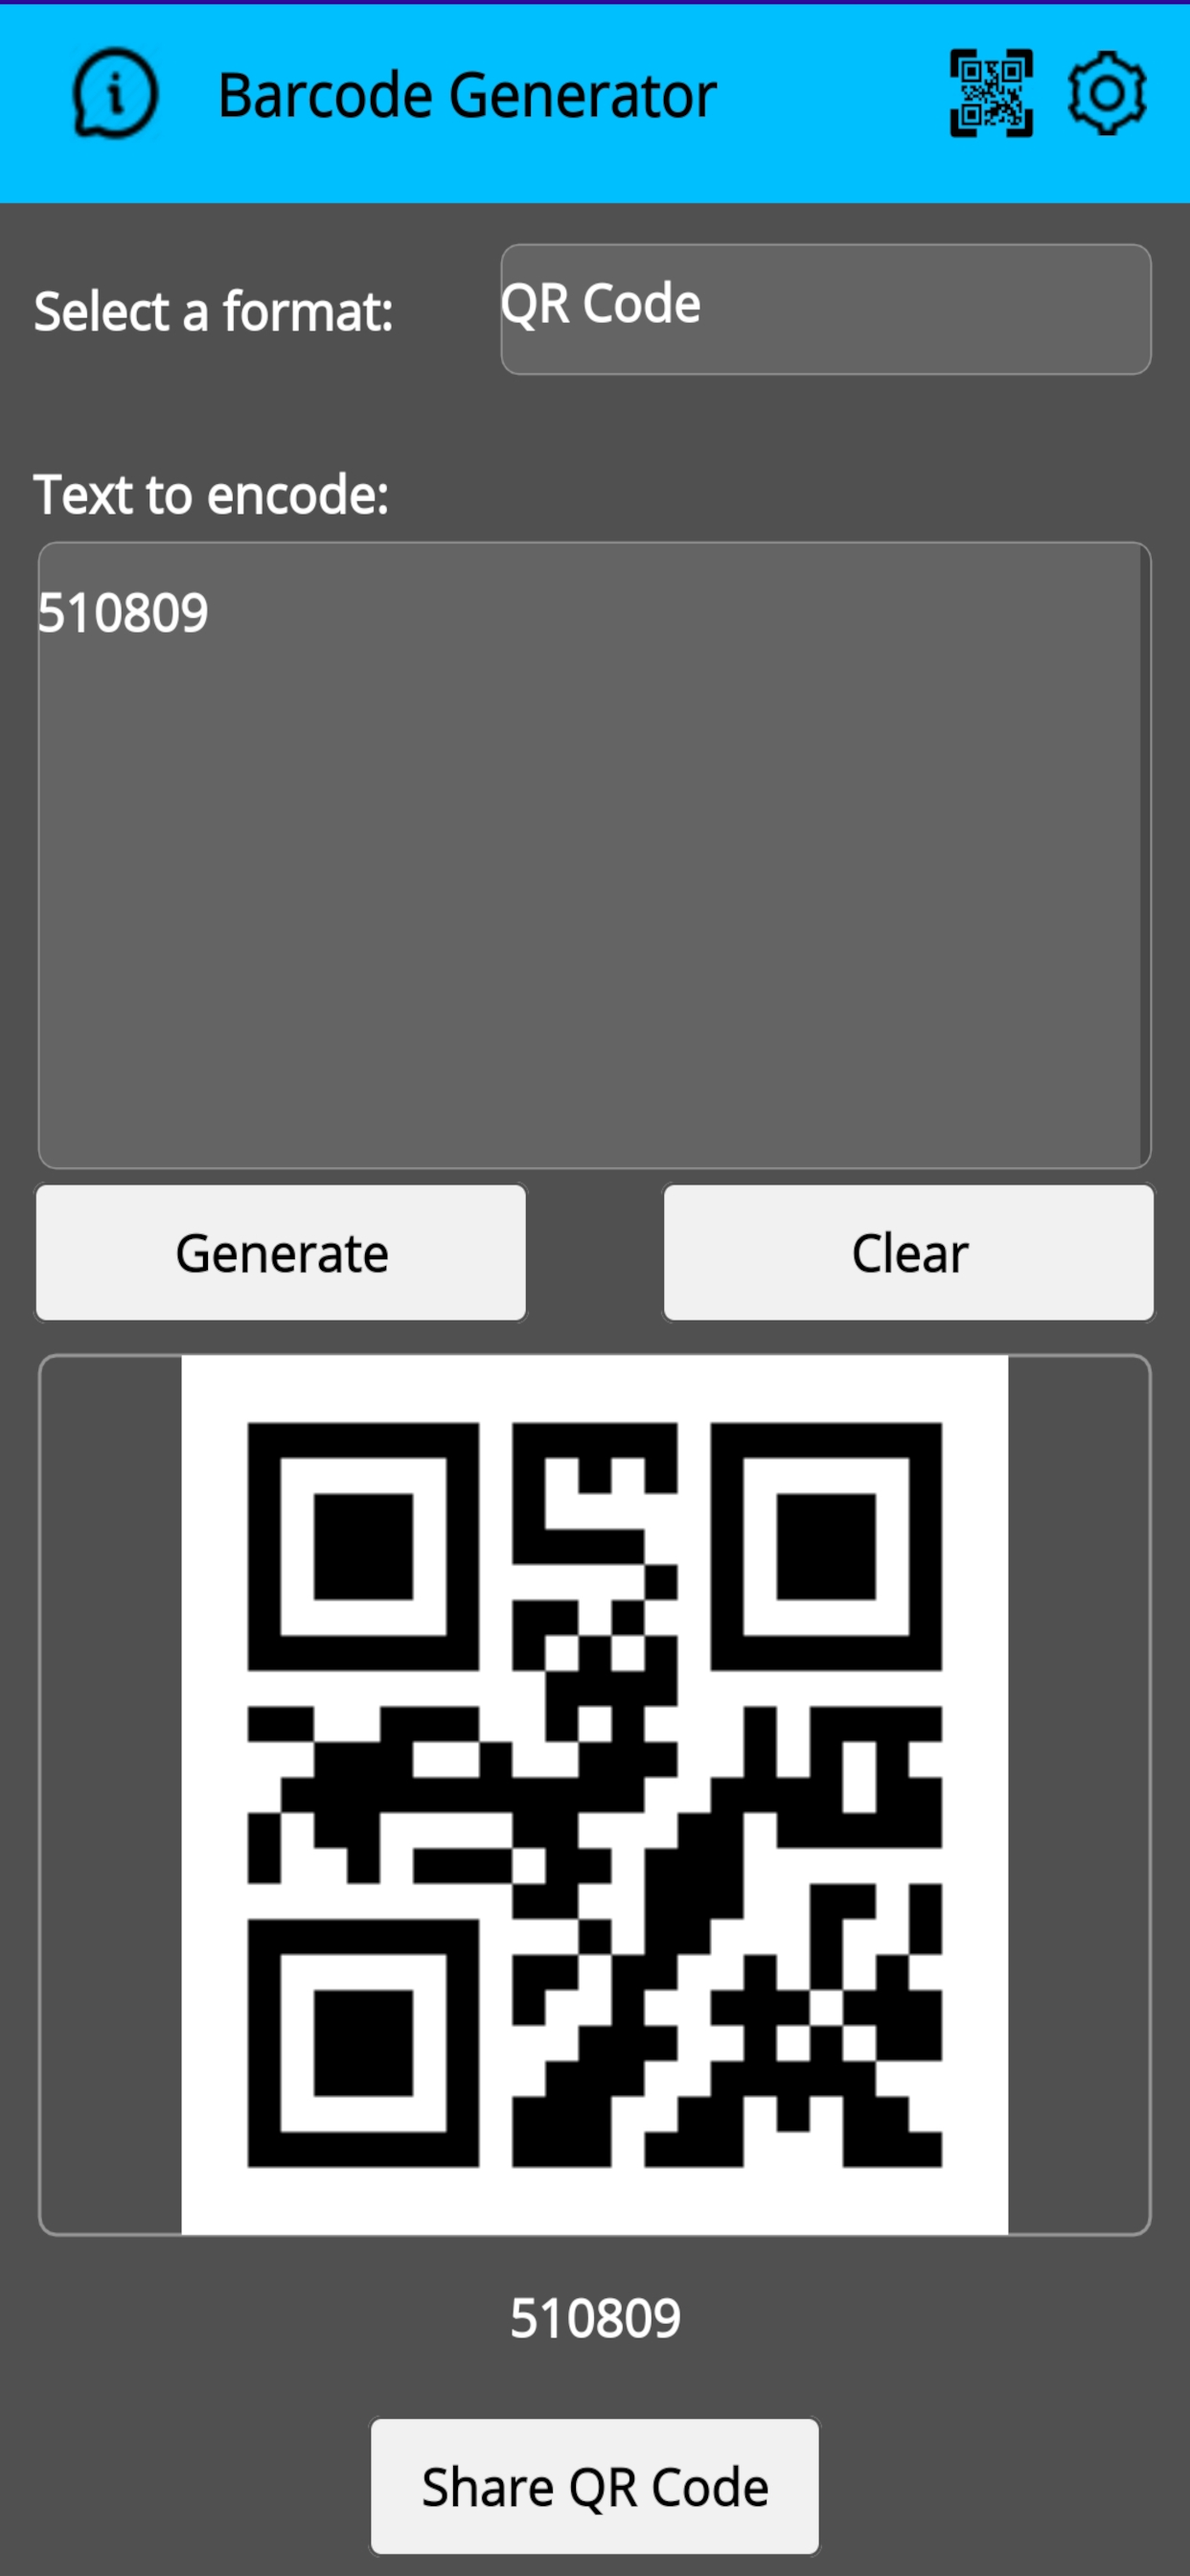
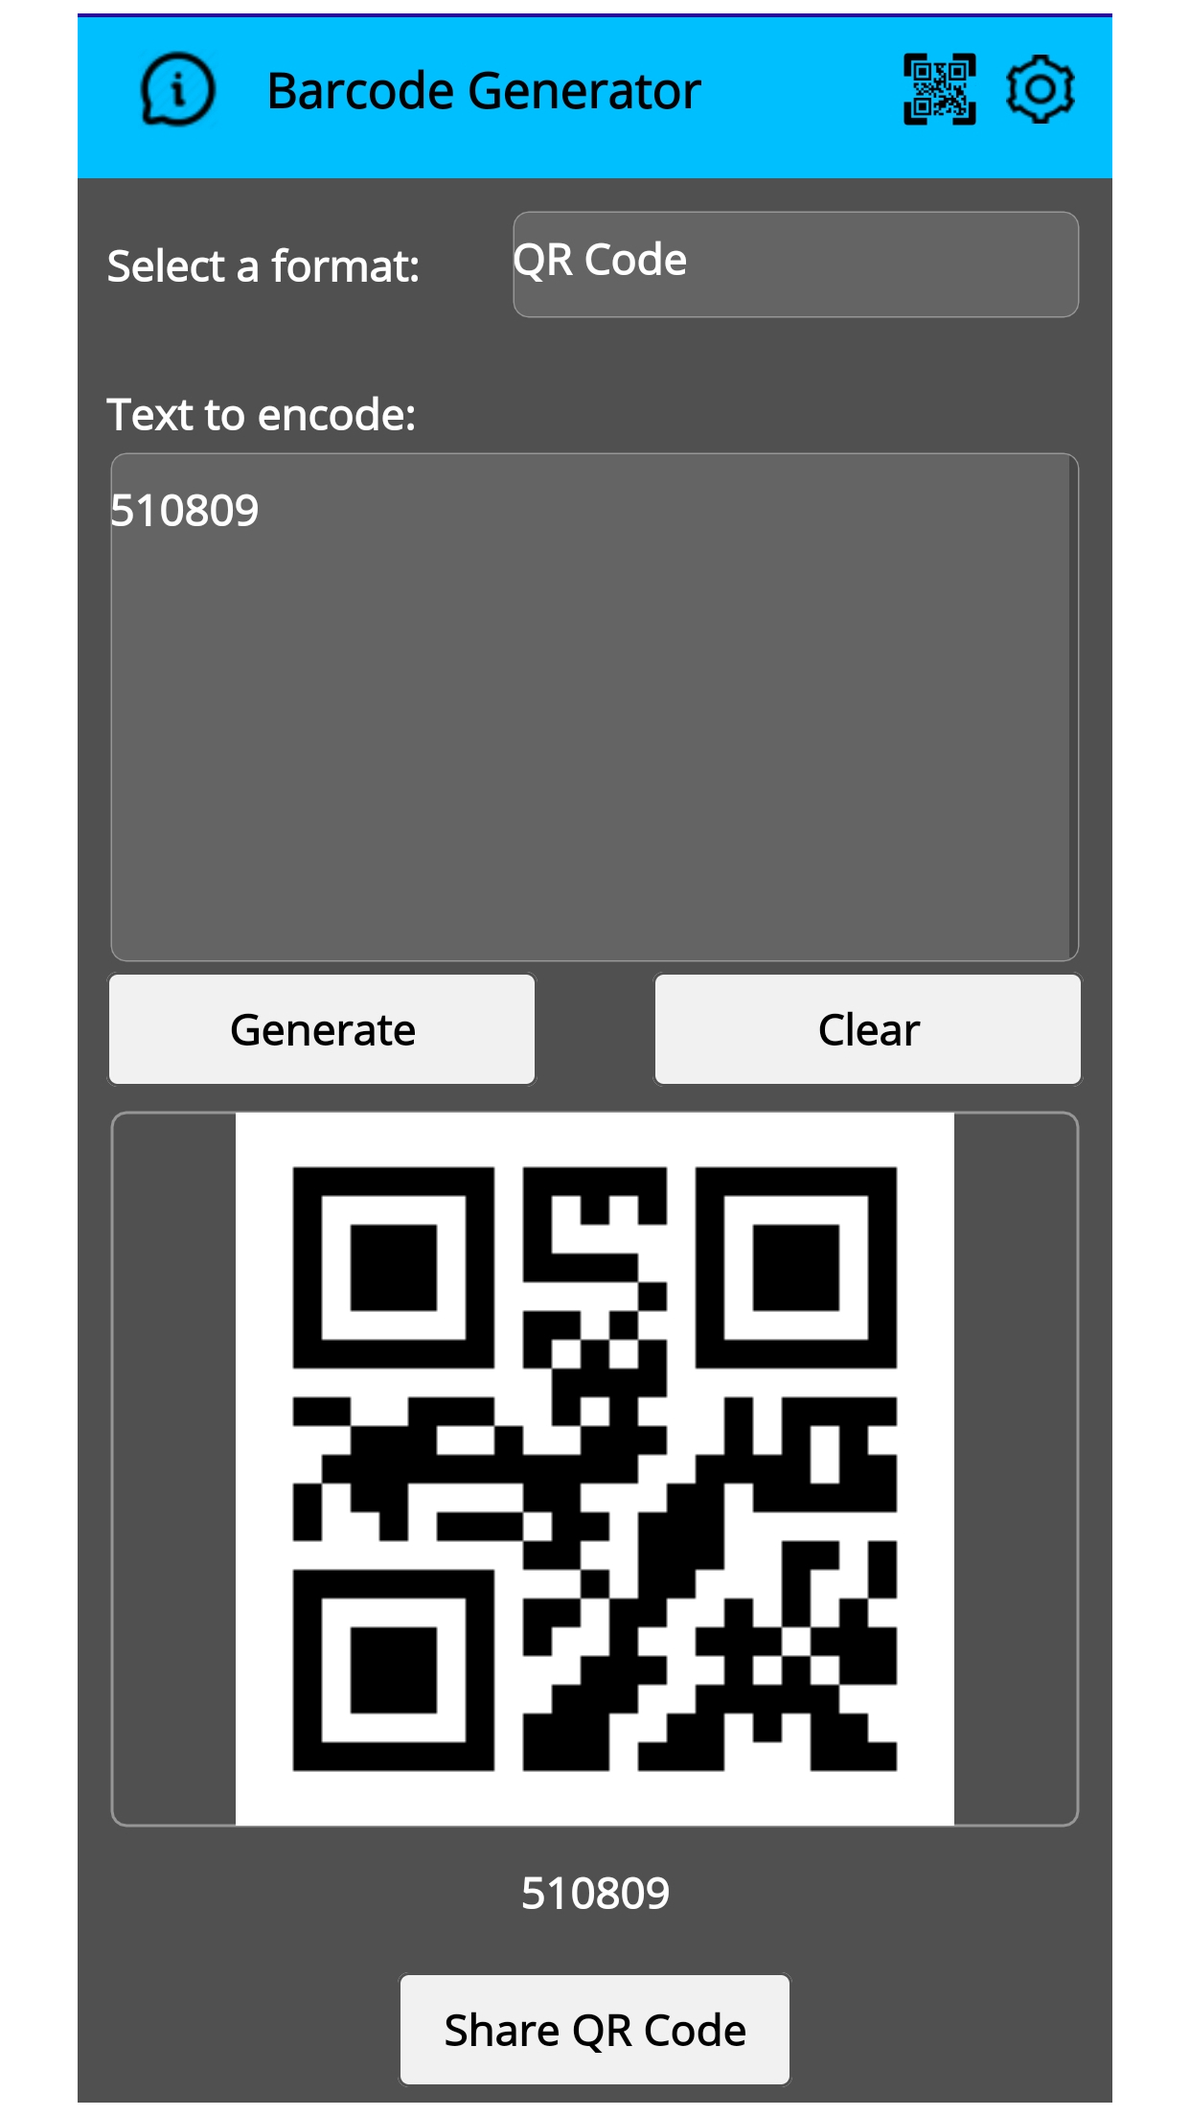
Update

diff --git a/BarcodeGenerator/App.xaml b/BarcodeGenerator/App.xaml
@@ -21,6 +21,12 @@
                 <Setter Property="BackgroundColor" Value="{AppThemeBinding Light={StaticResource LightGray}, Dark={StaticResource DarkGray}}" />
             </Style>
 
+            <Style TargetType="NavigationPage">
+                <Setter Property="BarBackgroundColor" Value="{AppThemeBinding Light={StaticResource Primary}, Dark={StaticResource Primary}}" />
+                <Setter Property="BarTextColor" Value="{AppThemeBinding Light={StaticResource Black}, Dark={StaticResource Black}}" />
+                <Setter Property="IconColor" Value="{AppThemeBinding Light={StaticResource Black}, Dark={StaticResource Black}}" />
+            </Style>
+
             <Style TargetType="StackLayout">
                 <Setter Property="BackgroundColor" Value="{AppThemeBinding Light={StaticResource LightGray}, Dark={StaticResource DarkGray}}" />
             </Style>

diff --git a/BarcodeGenerator/PageAbout.xaml b/BarcodeGenerator/PageAbout.xaml
@@ -30,7 +30,7 @@
                 x:Name="lblVersion"
                 VerticalOptions="Center" 
                 HorizontalOptions="Start"
-                Text="Version: 1.0.21" />
+                Text="Version: 1.0.22" />
 
             <Label
                 x:Name="lblCopyright"

diff --git a/BarcodeGenerator/PageSettings.xaml.cs b/BarcodeGenerator/PageSettings.xaml.cs
@@ -417,7 +417,7 @@ public partial class PageSettings : ContentPage
     }
 
     // Button save settings clicked event.
-    private async void OnSettingsSaveClicked(object sender, EventArgs e)
+    private static void OnSettingsSaveClicked(object sender, EventArgs e)
     {
         Preferences.Default.Set("SettingTheme", MainPage.cTheme);
         Preferences.Default.Set("SettingFormatGeneratorIndex", MainPage.nFormatGeneratorIndex);
@@ -431,11 +431,11 @@ public partial class PageSettings : ContentPage
 
         // Restart the application.
         //Application.Current.MainPage = new AppShell();
-        await Navigation.PushAsync(new MainPage());
+        Application.Current.MainPage = new NavigationPage(new MainPage());
     }
 
     // Button reset settings clicked event.
-    private async void OnSettingsResetClicked(object sender, EventArgs e)
+    private void OnSettingsResetClicked(object sender, EventArgs e)
     {
         // Get the elapsed time in milli seconds.
         stopWatch.Stop();
@@ -461,6 +461,6 @@ public partial class PageSettings : ContentPage
 
         // Restart the application.
         //Application.Current.MainPage = new AppShell();
-        await Navigation.PushAsync(new MainPage());
+        Application.Current.MainPage = new NavigationPage(new MainPage());
     }
 }

diff --git a/BarcodeGenerator/MainPage.xaml.cs b/BarcodeGenerator/MainPage.xaml.cs
@@ -1,8 +1,8 @@
 // Program .....: BarcodeGenerator.sln
 // Author ......: Geert Geerits - E-mail: geertgeerits@gmail.com
 // Copyright ...: (C) 2022-2022
-// Version .....: 1.0.21
-// Date ........: 2022-12-12 (YYYY-MM-DD)
+// Version .....: 1.0.22
+// Date ........: 2022-12-13 (YYYY-MM-DD)
 // Language ....: Microsoft Visual Studio 2022: .NET MAUI C# 11.0
 // Description .: Barcode Generator
 // Note ........: zxing:CameraBarcodeReaderView -> ex. WidthRequest="300" -> Grid RowDefinitions="400" (300 x 1.3333) = 3:4 aspect ratio
@@ -848,7 +848,7 @@ public partial class MainPage : ContentPage
         char[] charArray = cText.ToCharArray();
         Array.Reverse(charArray);
 
-        return String.Concat(charArray);
+        return string.Concat(charArray);
     }
 
     // Calculate the checksum of an EAN-13, EAN-8 and UPC-A code.
@@ -928,7 +928,7 @@ public partial class MainPage : ContentPage
         await DisplayAlert(cErrorTitle, cErrorMessage + "\n" + cRestartApp, cButtonClose);
 
         //Application.Current.MainPage = new AppShell();
-        await Navigation.PushAsync(new MainPage());
+        Application.Current.MainPage = new NavigationPage(new MainPage());
     }
 
     // Show license for Android and Windows = Workaround !!!

diff --git a/BarcodeGenerator/App.xaml.cs b/BarcodeGenerator/App.xaml.cs
@@ -10,12 +10,7 @@ public partial class App : Application
         //System.Globalization.CultureInfo.CurrentCulture = new System.Globalization.CultureInfo("nl-BE");
 
         //MainPage = new AppShell();
-        //MainPage = new NavigationPage(new MainPage());
-
-        var navigationPage = new NavigationPage(new MainPage());
-        navigationPage.BarBackgroundColor = Colors.DeepSkyBlue;
-        navigationPage.BarTextColor = Colors.Black;
-        MainPage = navigationPage;
+        MainPage = new NavigationPage(new MainPage());
     }
 
     // Window dimensions and location for desktop apps.
